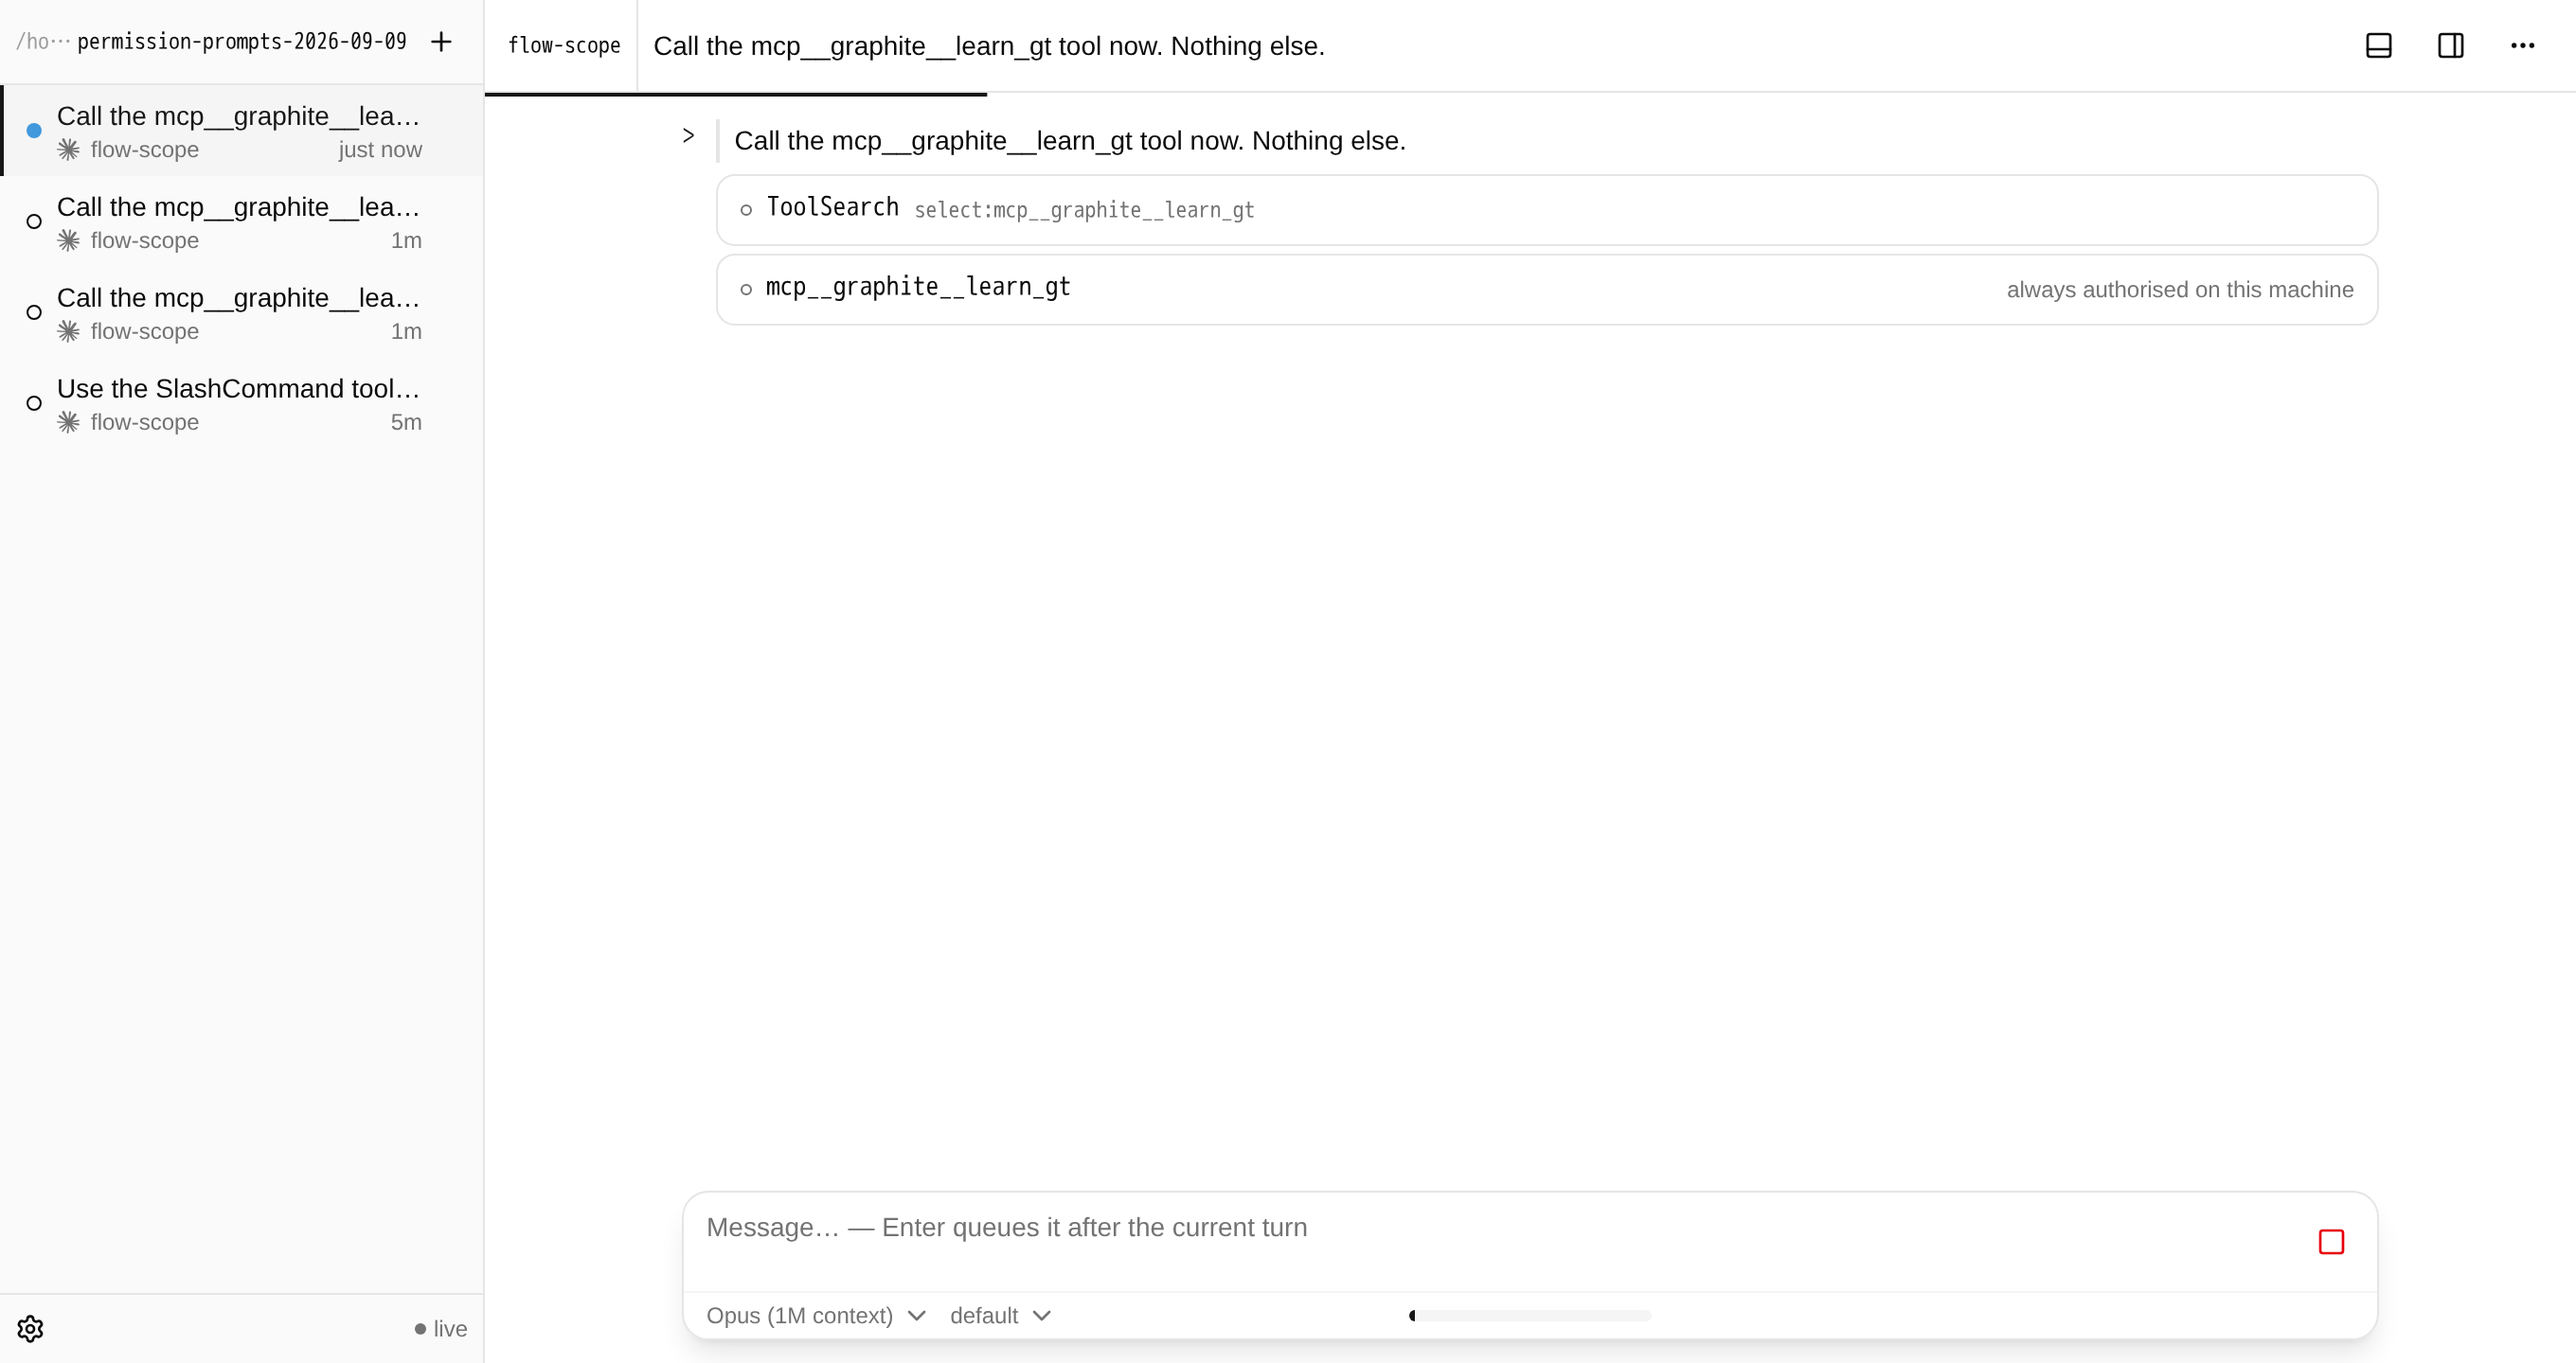
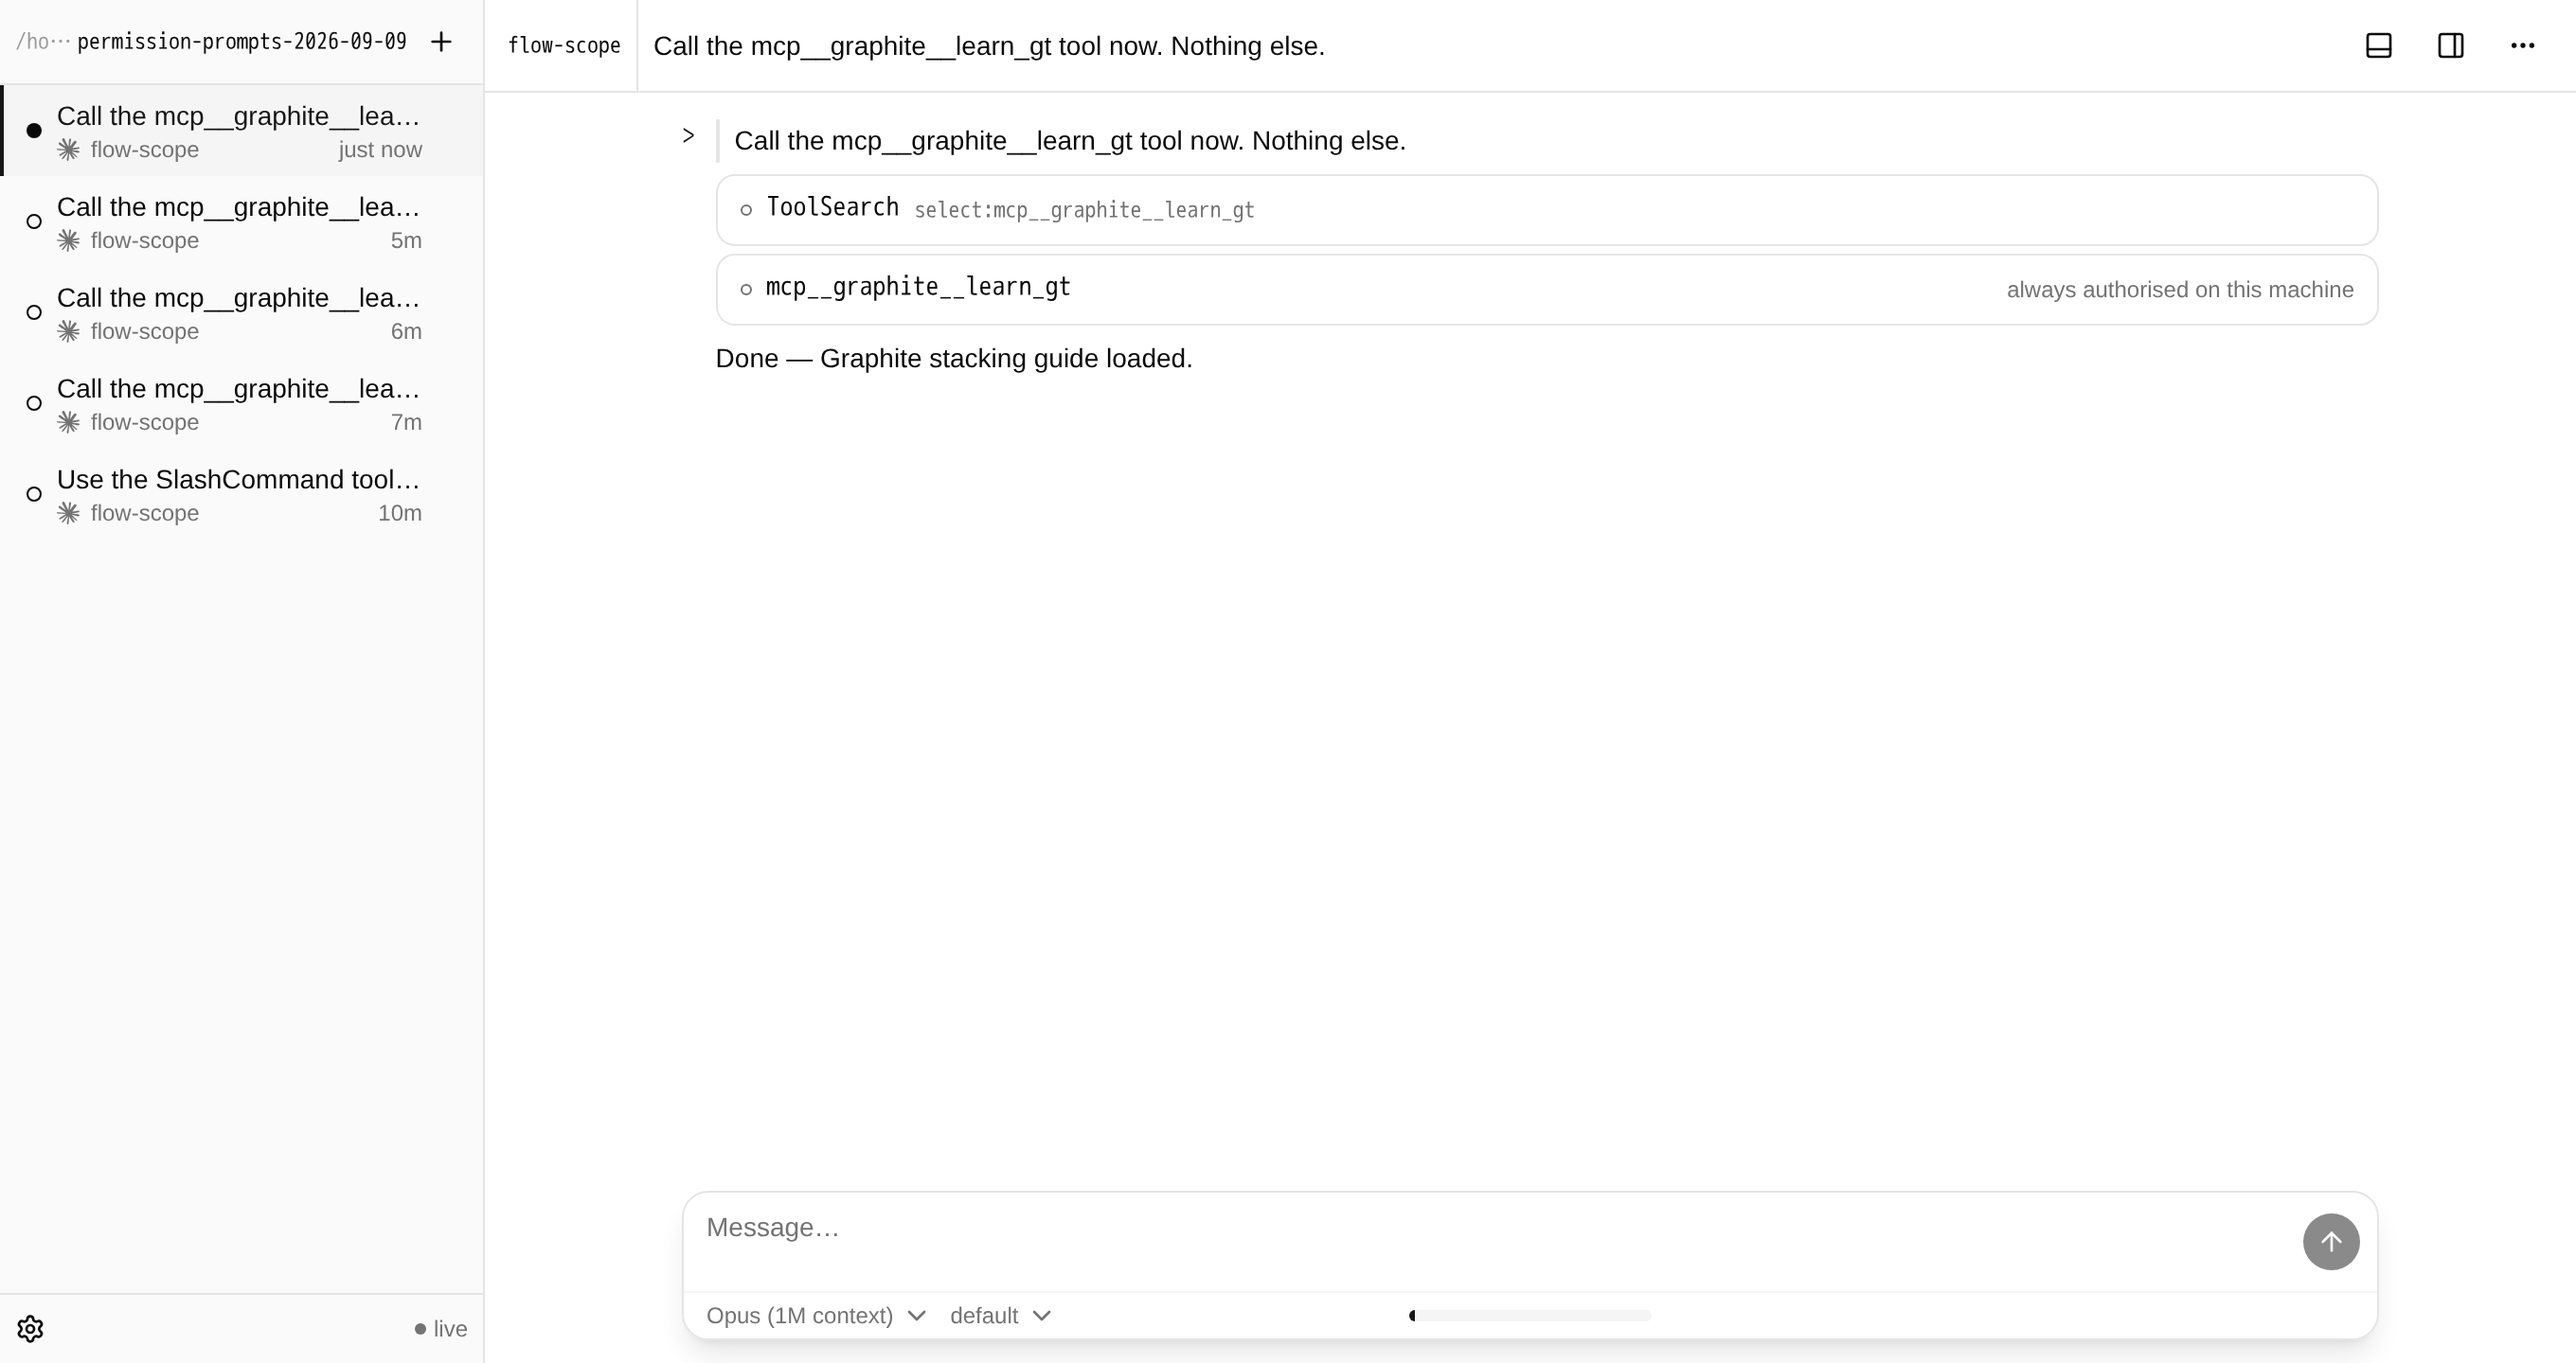
Render Always allow in the normal text colour
The row was `text-destructive` to spend the colour on the answer that
widens what the machine will run. It reads as a warning against the one
choice a person may have deliberately come for, and it was web-only —
the TUI renders the same PERMISSION_CHOICES unstyled, so the two front
ends disagreed about whether this was dangerous.

The emphasis it was carrying does not go away: the label still says "on
this machine", the description still spells out "never ask again in any
Agent Session", and that description is the one the cursor expands in
full rather than truncating. ADR 0017 names the label and the revocation
list as the mitigations for a name-grained grant, and neither moves.

Screenshots reshot from the same session so the sidebar matches.

diff --git a/web/src/components/composer-permission.tsx b/web/src/components/composer-permission.tsx
@@ -114,17 +114,7 @@ export function ComposerPermission({
                       <span aria-hidden className="w-3 shrink-0 font-mono text-xs text-muted-foreground">
                         {index + 1}
                       </span>
-                      <span
-                        className={cn(
-                          "shrink-0 font-medium",
-                          // Deny reads as the destructive one, which is backwards for a permission
-                          // and deliberately not done: refusing is the safe answer here, and the
-                          // colour is spent on the row that widens what the machine will run.
-                          choice.decision === "always" && "text-destructive",
-                        )}
-                      >
-                        {choice.label}
-                      </span>
+                      <span className="shrink-0 font-medium">{choice.label}</span>
                       {index !== cursor ? (
                         <span className="min-w-0 truncate text-xs text-muted-foreground">
                           {choice.description}
